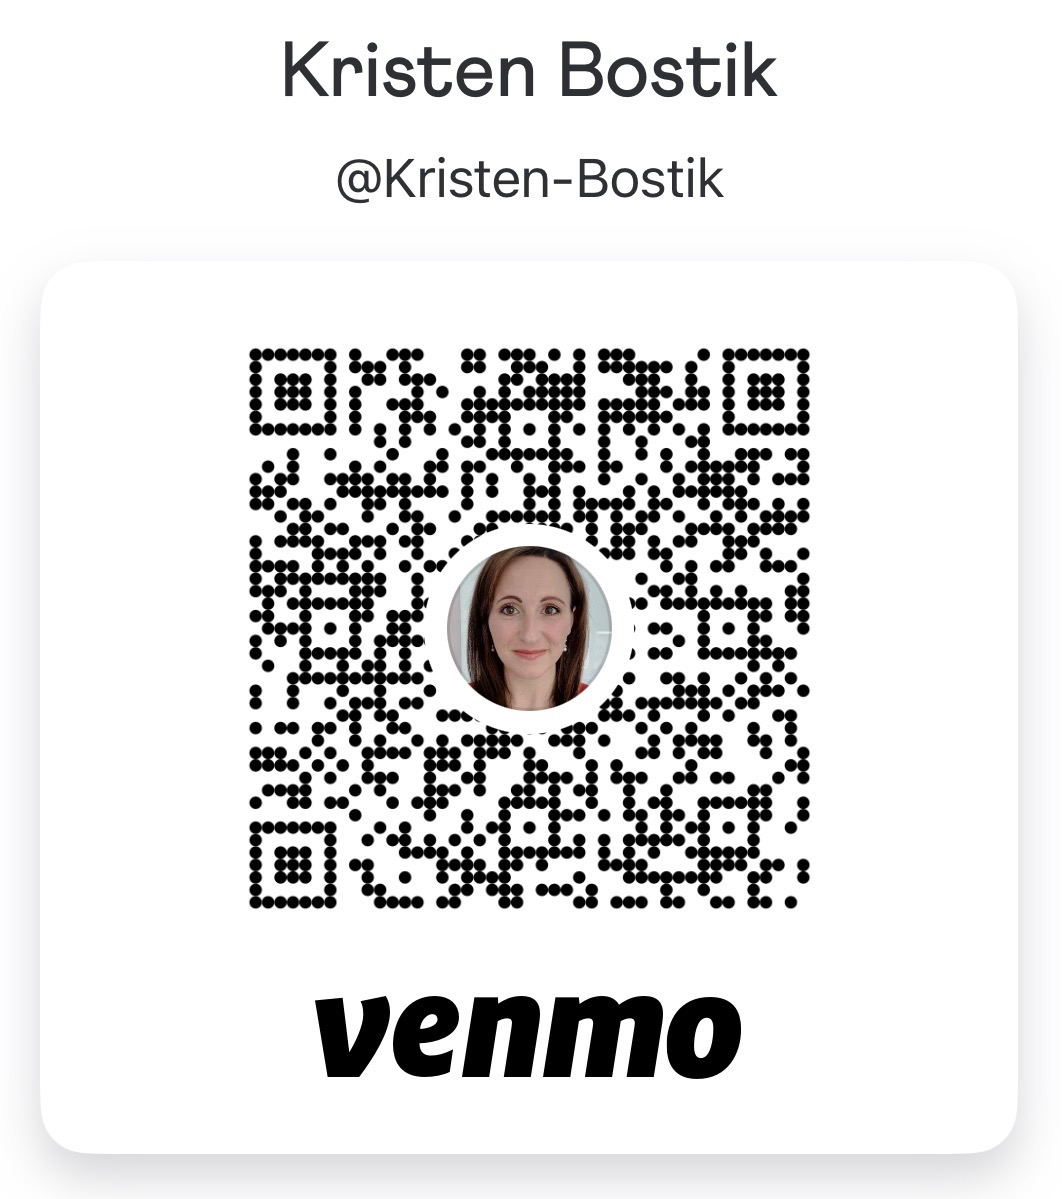
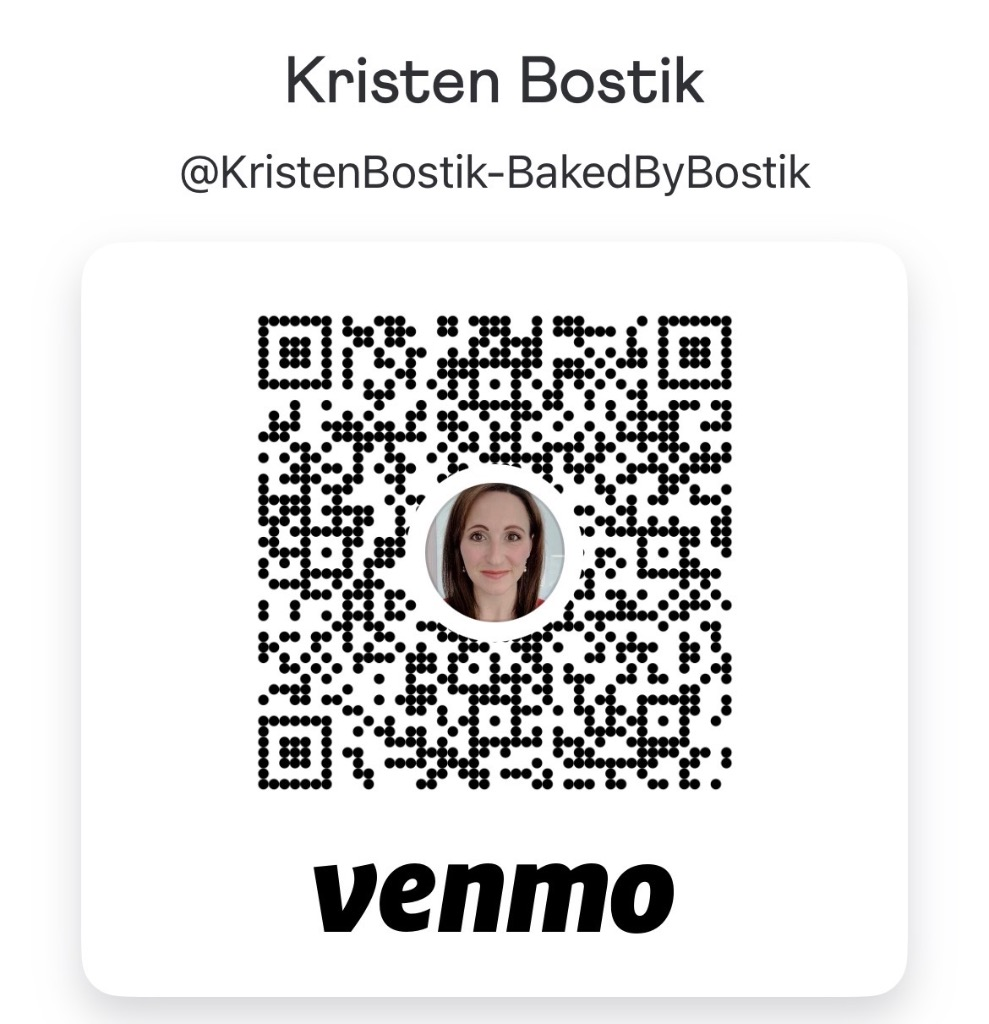
Update Venmo handle and QR code in email and docs

Changed region(s): [[0.2123, 0.2812, 0.7887, 0.7812], [0.091, 0.8125, 0.91, 1.0], [0.182, 0.0312, 0.819, 0.1875]]

diff --git a/functions/index.js b/functions/index.js
@@ -332,7 +332,8 @@ exports.dispatchQuoteEmail = onRequest({ cors: true, invoker: 'public' }, async 
                    <p><a href="${pdfUrl}" style="background:#1A2A3A; color:white; padding:10px 20px; text-decoration:none; border-radius:5px;">View Quote PDF</a></p>
                    ${inlineImagesHtml}
                    <p>Best,<br>Baked By Bostik</p>
-                   <p style="margin-top:8px; font-size:0.9em; color:#666;">Venmo: @Kristen-Bostik</p>`,
+                   <p style="margin-top:8px; font-size:0.9em; color:#666;">Venmo: @KristenBostik-BakedByBostik<br>
+                   <img src="https://bakedbybostik.com/assets/images/Venmo%20Info.JPEG" alt="Venmo QR Code" width="150" style="margin-top:10px; border-radius: 8px;" /></p>`,
 
             attachments: attachments
         };

diff --git a/docs/seasonal_page_plan.md b/docs/seasonal_page_plan.md
@@ -28,7 +28,7 @@ All images are already in the project:
 | `assets/images/Season Page/IMG_3882.jpeg` | Close-up — green & blue crayon cookies |
 | `assets/images/Season Page/IMG_3883.jpeg` | Close-up — personalized "Thank You / Mrs. Smith" apple cookie |
 | `assets/images/Season Page/IMG_3921.jpeg` | Flat-lay — 3 cookies on wood board (notebook heart, apple, pencil) with crayons surrounding |
-| `assets/images/Venmo Info.JPEG` | Venmo QR code — Kristen Bostik / @Kristen-Bostik |
+| `assets/images/Venmo Info.JPEG` | Venmo QR code — Kristen Bostik / @KristenBostik-BakedByBostik |
 
 ---
 
@@ -54,7 +54,7 @@ All images are already in the project:
 
 ### How It Works (3 Steps)
 1. **Fill out the form below** — Tell us your name, how many sets, and each teacher's name
-2. **Pay via Venmo** — Send payment to @Kristen-Bostik (QR code below) to lock in your order
+2. **Pay via Venmo** — Send payment to @KristenBostik-BakedByBostik (QR code below) to lock in your order
 3. **Pick up in May** — Grab your beautifully packaged gift boxes in Glen Ellyn
 
 ### Sold Out State
